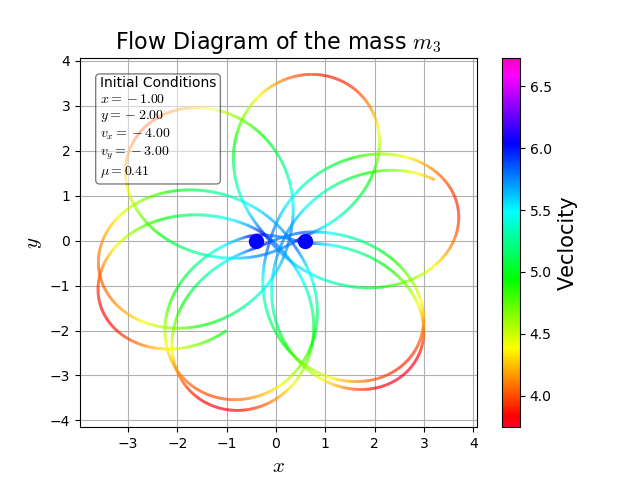
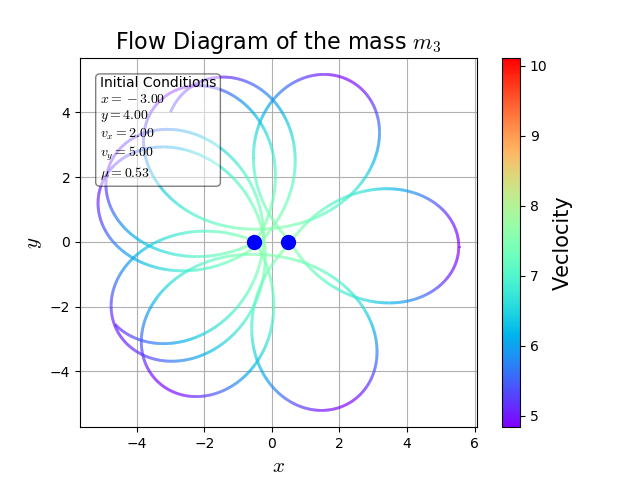
Updated Plots

diff --git a/Code/Lagrange_GUI.py b/Code/Lagrange_GUI.py
@@ -13,7 +13,7 @@ from tkinter.filedialog import *
 import tkinter.messagebox
 
 cmaps = ['plasma', 'rainbow', 'gist_rainbow']
-cmapType = cmaps[2]
+cmapType = cmaps[0]
 
 class GUI:
     def __init__(self, root):
